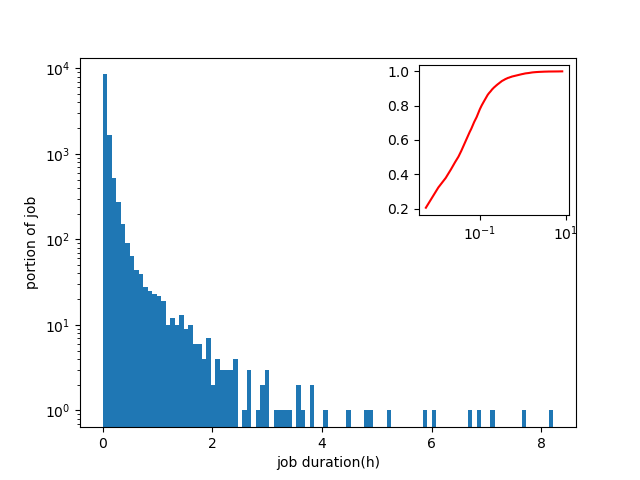
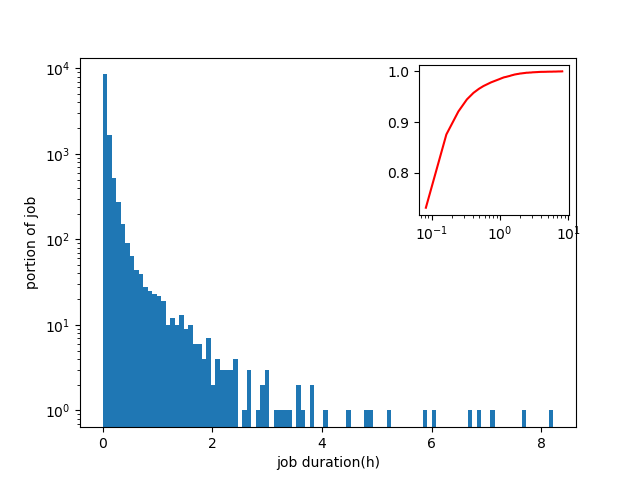
更改一些图的显示效果

diff --git a/mysql_analysis/batch_job/job_duration.py b/mysql_analysis/batch_job/job_duration.py
@@ -92,23 +92,24 @@ def graph():
             less[8] = less[8] + 1
 
     # 绘图
-    fig = plt.figure(figsize=(9, 4))
-    ax1 = fig.add_subplot(121)
-    ax2 = fig.add_subplot(122)
-    # fig = plt.figure()
-    # ax1 = fig.add_subplot(111)
-    # ax1.hist(job_duration, normed=False, alpha=1.0, bins=100)
-    # print((max(job_duration) - min(job_duration)) /100)
-    # ax1.set_yscale('log')
-    # ax1.set_xlabel("job duration(h)")
-    # ax1.set_ylabel("portion of job")
-    # axins = inset_axes(ax1, width=1.5, height=1.5, loc='upper right')
-    # hist, bin_edges = np.histogram(job_duration, bins=len(np.unique(job_duration)))
-    # cdf = np.cumsum(hist / sum(hist))
-    # axins.plot(bin_edges[1:], cdf, color='red', ls='-')
-    # axins.set_xscale('log')
-    #
-    # plt.savefig("../../imgs_mysql/job_duration_hist.png")
+    # fig = plt.figure(figsize=(9, 4))
+    # ax1 = fig.add_subplot(121)
+    # ax2 = fig.add_subplot(122)
+    fig = plt.figure()
+    ax1 = fig.add_subplot(111)
+    ax1.hist(job_duration, normed=False, alpha=1.0, bins=100)
+    print((max(job_duration) - min(job_duration)) /100)
+    ax1.set_yscale('log')
+    ax1.set_xlabel("job duration(h)")
+    ax1.set_ylabel("portion of job")
+    axins = inset_axes(ax1, width=1.5, height=1.5, loc='upper right')
+    hist, bin_edges = np.histogram(job_duration, bins=100)
+    cdf = np.cumsum(hist / sum(hist))
+    axins.plot(bin_edges[1:], cdf, color='red', ls='-')
+    axins.set_xscale('log')
+    print(len(np.unique(job_duration)))
+
+    plt.savefig("../../imgs_mysql/job_duration_hist.png")
 
 
     # 统计短job
@@ -128,20 +129,20 @@ def graph():
     # plt.savefig("../../imgs_mysql/short_job_duration.png")
 
     # medium job
-    res = []
-    res[:] = map(list, resource_record_of_medium_job)
-    id_resource_record_of_medium_job = [x[0] for x in res]
-    cpu_resource_record_of_medium_job = [x[1] for x in res]
-    mem_resource_record_of_medium_job = [x[2] for x in res]
-    ax1.hist(cpu_resource_record_of_medium_job, normed=False, alpha=0.7, bins=100)
-    ax1.set_xlabel("CPU utilization(medium job)")
-    ax1.set_ylabel("job number(medium job)")
-    ax2.hist(mem_resource_record_of_medium_job, normed=False, alpha=0.7, bins=100)
-    ax2.set_xlabel("memory utilization(medium job)")
-    ax2.set_ylabel("job number(medium job)")
-    ax1.set_ylim(0, 15)
-    ax2.set_ylim(0, 15)
-    plt.savefig("../../imgs_mysql/medium_job_duration.png")
+    # res = []
+    # res[:] = map(list, resource_record_of_medium_job)
+    # id_resource_record_of_medium_job = [x[0] for x in res]
+    # cpu_resource_record_of_medium_job = [x[1] for x in res]
+    # mem_resource_record_of_medium_job = [x[2] for x in res]
+    # ax1.hist(cpu_resource_record_of_medium_job, normed=False, alpha=0.7, bins=100)
+    # ax1.set_xlabel("CPU utilization(medium job)")
+    # ax1.set_ylabel("job number(medium job)")
+    # ax2.hist(mem_resource_record_of_medium_job, normed=False, alpha=0.7, bins=100)
+    # ax2.set_xlabel("memory utilization(medium job)")
+    # ax2.set_ylabel("job number(medium job)")
+    # ax1.set_ylim(0, 15)
+    # ax2.set_ylim(0, 15)
+    # plt.savefig("../../imgs_mysql/medium_job_duration.png")
 
     # long job
     # res = []

diff --git a/mysql_analysis/batch_job/task_duration_of_job.py b/mysql_analysis/batch_job/task_duration_of_job.py
@@ -1,0 +1,59 @@
+import matplotlib.pyplot as plt
+import MySQLdb as mdb
+import numpy as np
+from mpl_toolkits.axes_grid1.inset_locator import inset_axes
+
+def graph():
+    # 连接数据库
+    conn = mdb.connect(host='127.0.0.1', port=3306, user='root', passwd='root', db='alibaba_trace', charset='utf8')
+
+    # 如果使用事务引擎，可以设置自动提交事务，或者在每次操作完成后手动提交事务conn.commit()
+    conn.autocommit(1)  # conn.autocommit(True)
+
+    # 使用cursor()方法获取操作游标
+    cursor = conn.cursor()
+    # 因该模块底层其实是调用CAPI的，所以，需要先得到当前指向数据库的指针。
+    try:
+        cursor.execute("select t.job_id, avg(t.task_duration) from (select job_id, task_id, avg(end_timestamp-start_timestamp)as task_duration from batch_instance where status='Terminated' group by task_id) t where t.task_duration > 0 group by job_id ")
+        records = cursor.fetchall()
+        list_records = list(records)
+
+    except:
+        import traceback
+        traceback.print_exc()
+        # 发生错误时回滚
+        conn.rollback()
+    finally:
+        # 关闭游标连接
+        cursor.close()
+        # 关闭数据库连接
+        conn.close()
+
+    res = []
+    res[:] = map(list, list_records)
+    job_id = [x[0] for x in res]
+    avg_task_duration = [float(x[1])/3600 for x in res]
+    print(max(avg_task_duration))
+    print(min(avg_task_duration))
+
+
+    fig = plt.figure()
+    ax1 = fig.add_subplot(1, 1, 1)
+    # 直方图
+    ax1.hist(avg_task_duration, normed=False, alpha=1.0, bins=100)
+    ax1.set_xlabel('average task duration(h)')
+    ax1.set_ylabel('job number')
+    ax1.set_yscale('log')
+    # cdf
+    axins = inset_axes(ax1, width=1.5, height=1.5, loc='upper right')
+    hist, bin_edges = np.histogram(avg_task_duration, bins=len(np.unique(avg_task_duration)))
+    cdf = np.cumsum(hist / sum(hist))
+    axins.plot(bin_edges[1:], cdf, color='red', ls='-')
+    axins.set_xscale('log')
+    # axins.set_yticks([])
+
+    plt.savefig("../../imgs_mysql/hist_of_task_duration_of_job")
+    plt.show()
+
+if __name__ == '__main__':
+    graph()

diff --git a/mysql_analysis/batch_job/job_task_num.py b/mysql_analysis/batch_job/job_task_num.py
@@ -1,0 +1,61 @@
+import matplotlib.pyplot as plt
+import MySQLdb as mdb
+import numpy as np
+from mpl_toolkits.axes_grid1.inset_locator import inset_axes
+
+def graph():
+    # 连接数据库
+    conn = mdb.connect(host='127.0.0.1', port=3306, user='root', passwd='root', db='alibaba_trace', charset='utf8')
+
+    # 如果使用事务引擎，可以设置自动提交事务，或者在每次操作完成后手动提交事务conn.commit()
+    conn.autocommit(1)  # conn.autocommit(True)
+
+    # 使用cursor()方法获取操作游标
+    cursor = conn.cursor()
+    # 因该模块底层其实是调用CAPI的，所以，需要先得到当前指向数据库的指针。
+    try:
+        cursor.execute("select job_id, count(job_id) from batch_task where job_id != 0 group by job_id")
+        records = cursor.fetchall()
+        list_records = list(records)
+
+    except:
+        import traceback
+        traceback.print_exc()
+        # 发生错误时回滚
+        conn.rollback()
+    finally:
+        # 关闭游标连接
+        cursor.close()
+        # 关闭数据库连接
+        conn.close()
+
+    res = []
+    res[:] = map(list, list_records)
+    job_id = [x[0] for x in res]
+    task_num = [x[1] for x in res]
+    print(max(task_num))
+    print(min(task_num))
+
+
+    fig = plt.figure()
+    ax1 = fig.add_subplot(1, 1, 1)
+    # 直方图
+    ax1.hist(task_num, normed=False, alpha=1.0, bins=max(task_num))
+    ax1.set_xlabel('task number per job')
+    ax1.set_ylabel('job number')
+    ax1.set_yscale('log')
+    # cdf
+    axins = inset_axes(ax1, width=1.5, height=1.5, loc='upper right')
+    hist, bin_edges = np.histogram(task_num, bins=max(task_num))
+    cdf = np.cumsum(hist / sum(hist))
+    print(max(bin_edges[1:]))
+    print(max(cdf))
+    axins.plot(bin_edges[1:], cdf, color='red', ls='-')
+    axins.set_xscale('log')
+    # axins.set_yticks([])
+
+    plt.savefig("../../imgs_mysql/hist_of_job_task_num")
+    plt.show()
+
+if __name__ == '__main__':
+    graph()

diff --git a/mysql_analysis/online_service/container_instance_cpi_mpki_time.py b/mysql_analysis/online_service/container_instance_cpi_mpki_time.py
@@ -1,7 +1,5 @@
 import matplotlib.pyplot as plt
 import MySQLdb as mdb
-import numpy as np
-from mpl_toolkits.axes_grid1.inset_locator import inset_axes
 
 def graph():
     # 连接数据库
@@ -58,17 +56,28 @@ def graph():
     ax1 = fig.add_subplot(1, 3, 1)
     ax2 = fig.add_subplot(1, 3, 2, sharey=ax1)
     ax3 = fig.add_subplot(1, 3, 3, sharey=ax1)
+    ax1.set_ylim(0, 20)
+    plt.yticks([y for y in range(20 + 1) if y % 5 == 0])
     # 直方图
-    ax1.hist(avg_cpi_4, normed=False, alpha=1.0, bins=len(np.unique(avg_cpi_4)))
-    ax2.hist(avg_cpi_4_8, normed=False, alpha=1.0, bins=len(np.unique(avg_cpi_4_8)))
-    ax3.hist(avg_cpi_8_12, normed=False, alpha=1.0, bins=len(np.unique(avg_cpi_8_12)))
+    ax1.hist(avg_cpi_4, normed=False, alpha=1.0, bins=100)
+    ax2.hist(avg_cpi_4_8, normed=False, alpha=1.0, bins=100)
+    ax3.hist(avg_cpi_8_12, normed=False, alpha=1.0, bins=100)
     ax1.set_xlabel('cpi ts less 4(h)')
     ax2.set_xlabel('cpi ts more 4(h) less 8(h)')
     ax3.set_xlabel('cpi ts more 8(h) less 12(h)')
-    ax1.set_ylabel('instance number')
-    # ax1.set_yscale('log')
+    ax1.set_ylabel('portion of cpi')
 
     plt.savefig("../../imgs_mysql/container_instance_cpi_time")
+
+    # ax1.hist(avg_mpki_4, normed=False, alpha=1.0, bins=100)
+    # ax2.hist(avg_mpki_4_8, normed=False, alpha=1.0, bins=100)
+    # ax3.hist(avg_mpki_8_12, normed=False, alpha=1.0, bins=100)
+    # ax1.set_xlabel('mpki ts less 4(h)')
+    # ax2.set_xlabel('mpki ts more 4(h) less 8(h)')
+    # ax3.set_xlabel('mpki ts more 8(h) less 12(h)')
+    # ax1.set_ylabel('portion of mpki')
+    #
+    # plt.savefig("../../imgs_mysql/container_instance_mpki_time")
     plt.show()
 
 if __name__ == '__main__':

diff --git a/mysql_analysis/cdf_of_machine_container.py b/mysql_analysis/cdf_of_machine_container.py
@@ -90,12 +90,15 @@ def graph():
     ax1.set_ylabel('portion of machine/container')
     ax1.set_xlabel('cpu utilization')
     ax1.set_ylim(0, 1.4)
+    ax1.set_xlim(0, 110)
     # ax2.set_ylabel('portion of instance')
     ax2.set_xlabel('memory utilization')
     ax2.set_ylim(0, 1.4)
+    ax2.set_xlim(0, 110)
     # ax3.set_ylabel('portion of instance')
     ax3.set_xlabel('disk utilization')
     ax3.set_ylim(0, 1.4)
+    ax3.set_xlim(0, 110)
     # ax1.grid(linestyle='--')
     ax1.legend(loc="best")
     ax2.legend(loc="best")
